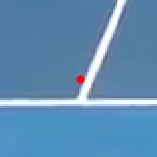
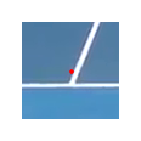
update README

diff --git a/README.md b/README.md
@@ -24,18 +24,18 @@ point is center of tennis court). We used additional point for better convergenc
 ## Postporcessing
 It was implemented 2 types of postprocessing techniques:
 ### 1. Refine keypoints using classical computer vision
-Lets apply our model to one image 
-![](imgs/net_prediction.png)
-Af first glance, keypoints prediction is quite good but if we zoom, for example the firth point, we can see that prediction is not perfect. 
-![](imgs/crop_example.png)
+Lets apply our intermediate model to one image <br>
+![](imgs/net_prediction.png) <br>
+Af first glance, keypoints prediction is quite good but if we zoom, for example the fifth point, we can see that prediction is not perfect. 
+![](imgs/crop_example.png) <br>
 To overcome this issue we will exctract white pixels from crop, detect lines and get intersection of these lines by using classical computer vision techniques. 
 ![](imgs/kps_refine.png)
 ### 2. Use homography to reconstruct shifted keypointes.
-<img>
+![](imgs/homography.png) <br>
 The main thing is that we can compare predicted points with reference ones by using homography matrix. To detect homography matrix we use 4 predicted points
 and 4 points from reference court. Resulting matrix gives us one-to-one correspondense and we can move predicted point to the right position using reference
 points location. It can be helpful, for example, in case of occlusion.
-<img>
+![](imgs/homography_example.png) <br>
 
 ## Evaluation (metrics)
 
@@ -44,3 +44,4 @@ points location. It can be helpful, for example, in case of occlusion.
 ## How to train
 
 ## Infer in video 
+![](video_infer) <br>
